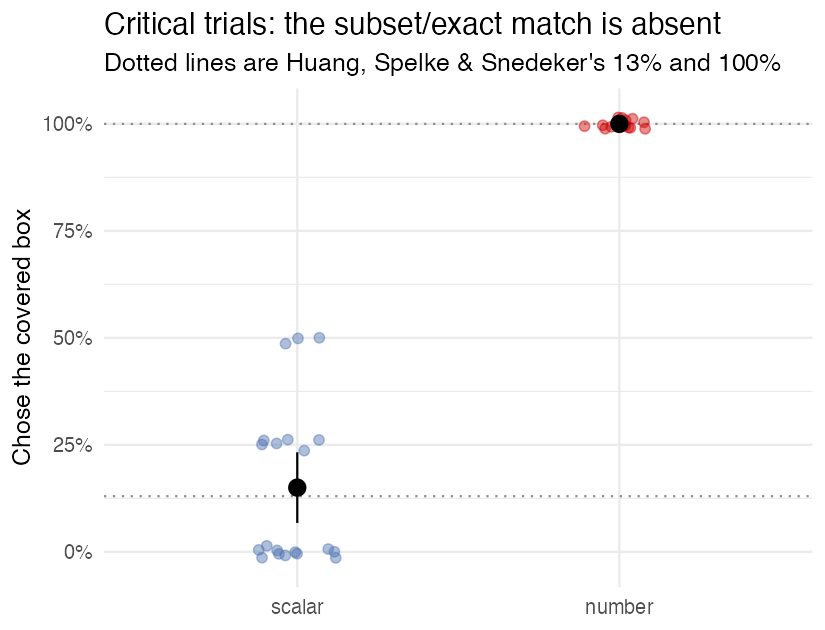
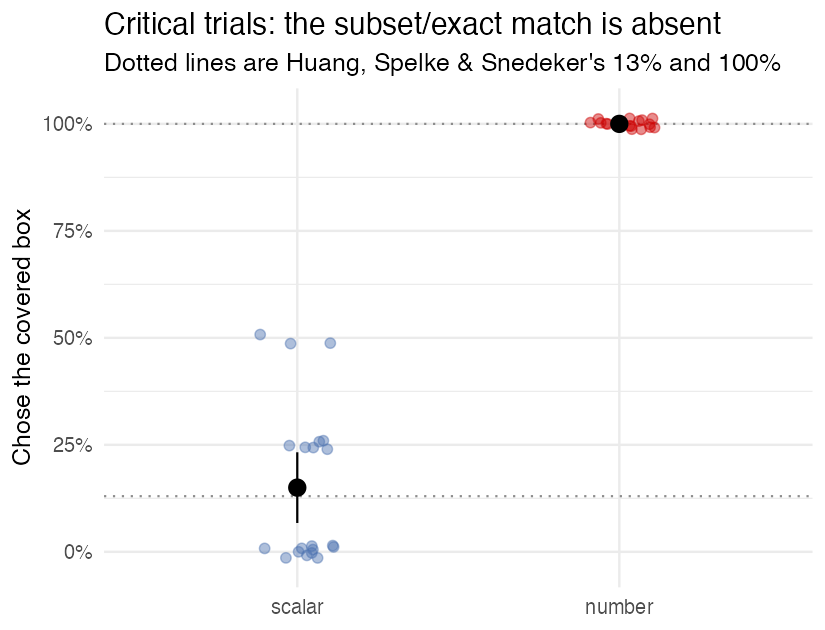
criticalOneSet is scalar-only; the number term gets no empty boxes
Elizabeth's screenshot: "Give me the box with two birds" showed a blank
white box, a covered box, and three birds. Two problems.

The blank box reads as an image that failed to load rather than as a box
with nothing in it. The scalar EMPTY panel does not have this problem, since
it still shows both characters, just with nothing above them.

And criticalOneSet has no work to do in the number term anyway. It exists to
close the domain loophole in "some of the X", and "the box with two birds"
has no partitive and no domain ambiguity -- design.py says as much a few
lines above. For numbers it was only the standard critical with a 0 in place
of the 1: no loophole closed, one box wasted, and that box looking broken.

The number term's criticalOneSet role now maps to the ordinary critical
kind, giving it four critical trials and no empty boxes. Trial counts and
survey length are unchanged.

Claude-Session: https://claude.ai/code/session_01W6W1Yt4uZhCBdA8GGktaX5

diff --git a/design.py b/design.py
@@ -164,11 +164,17 @@ SCALAR = {"anchor":"allVis", "probeEarly":"probeEarly", "critical":"critical",
           "criticalOneSet":"criticalOneSet", "matchVsLess":"noneSome",
           "matchVsMore":"someAll", "otherQuant":["noneVis","allVis"],
           "probe":"probe"}
-# the number term has no partitive and so no domain ambiguity -- "the box with
+# The number term has no partitive and so no domain ambiguity -- "the box with
 # two fish" counts within a box by construction. Its anchor is there to keep the
 # two versions the same length and shape.
+#
+# For the same reason criticalOneSet has no work to do here, and it maps to the
+# ORDINARY critical kind. Giving it an empty box would only make the standard
+# critical with a 0 in place of the 1 -- no loophole closed, and a blank white
+# box that reads as an image that failed to load rather than a box with nothing
+# in it. The number term therefore gets four critical trials and no empty boxes.
 NUMBER = {"anchor":"fiveVis", "probeEarly":"probeEarly", "critical":"critical",
-          "criticalOneSet":"criticalOneSet", "matchVsLess":"oneTwo",
+          "criticalOneSet":"critical", "matchVsLess":"oneTwo",
           "matchVsMore":"twoMore", "otherQuant":["threeVis","fiveVis"],
           "probe":"probe"}
 

diff --git a/README.md b/README.md
@@ -121,7 +121,7 @@ entirely — otherwise it is 22 questions × 3 choices of manual insertion.
   | **anchor** — an *all* trial, **first** | 1 | fixes the domain, see below |
   | **critical** — (NONE,ALL) / (1, 3∨5) | 2 | the headline: no match visible, so anyone insisting on one must take the covered box. 13% vs 100%. |
   | **matchVsMore** — (SOME,ALL) / (2, 3∨5) | 1 | *not* a comprehension check. Both a subset and a total set are visible and adults take the subset 90% of the time — Huang et al. call this "a robust ability to calculate the scalar implicature". It is what makes the critical result strange: the implicature is computed when it picks something out and abandoned when it does not. |
-  | **criticalOneSet** — (EMPTY,ALL) / (0, 3∨5) | 2 | **ours.** The same question with the domain loophole closed — see below |
+  | **criticalOneSet** — (EMPTY,ALL), scalar only | 2 | **ours.** The same question with the domain loophole closed — see below |
   | **matchVsLess** — (NONE,SOME) / (1, 2) | 1 | the comprehension check: *some* is not *none*, *two* is not *one*. At ceiling in the original. |
   | **otherQuant** — *none*/*all*, *three*/*five* | 2 | balance, see below |
   | **probe** | 1 | see further below |
@@ -154,6 +154,16 @@ So the two conditions differ **only** in whether the global reading is available
 and the gap between their covered-box rates measures how much of the standard
 result that reading was buying. If they agree, it was buying nothing. The
 analysis prints them side by side.
+
+**Scalar only.** *The box with two birds* has no partitive and so no domain
+ambiguity — it counts within a box by construction. Giving the number term an
+equivalent would just be the standard critical with a `0` where the `1` goes:
+no loophole closed, and a blank white box that reads as an image that failed to
+load rather than as a box containing nothing. The number term gets four critical
+trials instead, and no empty boxes.
+
+The scalar EMPTY panel has no such problem, because it still shows both
+characters — just with nothing above them.
 
 ### The anchor, and the domain of "the apples"
 
